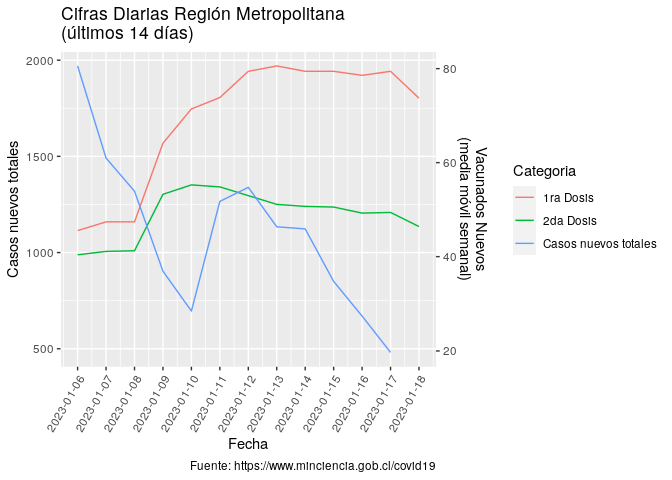
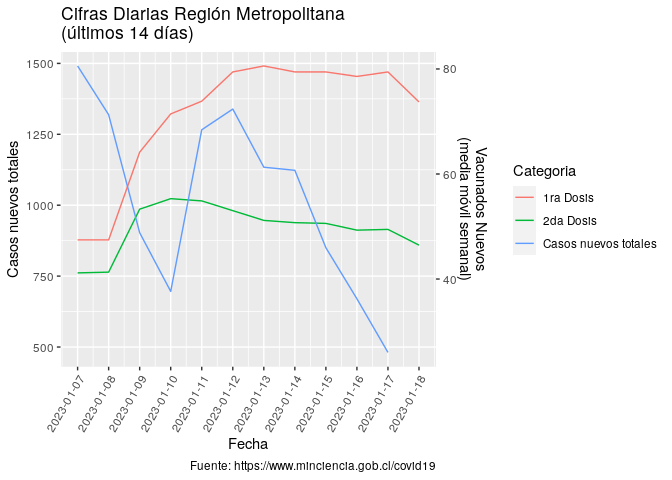
Re-build Rmarkdown files

diff --git a/README.md b/README.md
@@ -3,7 +3,7 @@
 
 Ejemplo de uso de total\_casos de COVID recopilados por el Ministerio de
 Ciencia de Chile <https://www.minciencia.gob.cl/covid19>. Última
-actualización: 2023-01-19
+actualización: 2023-01-20
 
 ## Visualización desde el comienzo de la pandemia
 
